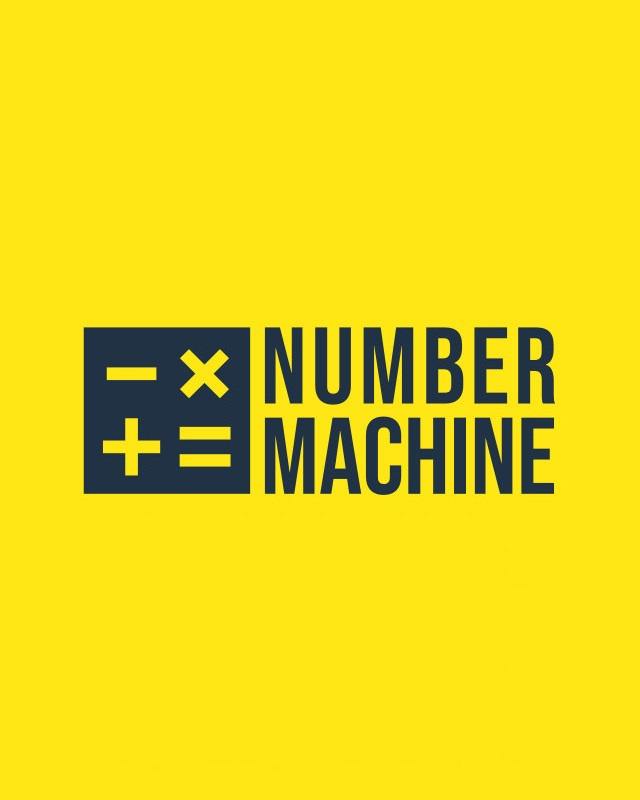
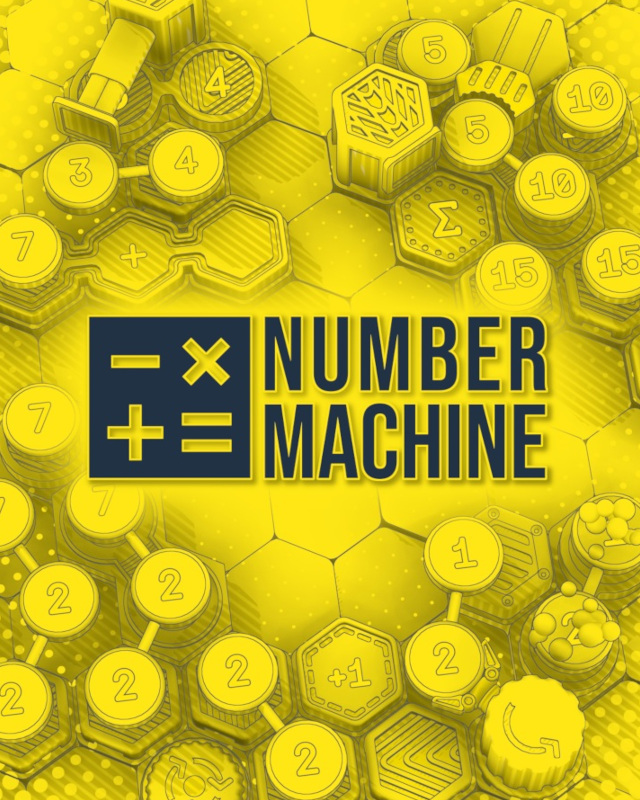
New masking, updated nm assets

diff --git a/style.css b/style.css
@@ -163,6 +163,17 @@ section {
 	padding: 0 var(--page-padding);
 }
 
+section:not(:last-of-type) {
+	mask: url(assets/mask.svg) 100% calc(100% + 10px) repeat-x, linear-gradient(#000 0 0);
+	mask-composite: exclude;
+	margin-bottom: -20px;
+	
+	animation-name: mask-anim;
+	animation-duration: 9s;
+	animation-iteration-count: infinite;
+	animation-timing-function: linear;
+}
+
 .hero {
 	background-color: #141312;
 	padding: calc(8rem + 40px) 0 5rem 0;
@@ -281,41 +292,6 @@ section {
 	top: 50%;
 	transform: translate(-50%,-50%);
 	background-attachment: fixed;
-}
-
-.mask {
-	background-color: var(--section-bg);
-	height: 30px;
-	mask-image: url("assets/mask.svg");
-	mask-repeat: repeat-x;
-	-webkit-mask-image: url("assets/mask.svg");
-	-webkit-mask-repeat: repeat-x;
-	width: 100%;
-	position: absolute;
-	top: -26px;
-	left: 0;
-	right: 0;
-	overflow: hidden;
-	z-index: 1;
-	
-	animation-name: mask-anim;
-	animation-duration: 9s;
-	animation-iteration-count: infinite;
-	animation-timing-function: linear;
-}
-
-.mask.mask-mini {
-	transform: scaleY(0.5) translateY(8px)
-}
-
-.mask.mask-reverse {
-	transform: scaleX(-1);
-}
-
-.mask.bottom {
-	transform: rotate(180deg);
-	bottom: -26px;
-	top: auto;
 }
 
 .games-section {
@@ -475,7 +451,33 @@ section {
 
 .number-machine {
 	--section-bg: #FFE715;
+	background-image: url("assets/number_machine/bg.jpg");
+	background-position: 50% 50%;
+	background-size: cover;
 }
+
+.number-machine .game-logo {
+	margin: -75px;
+}
+
+@media screen and (max-width: 700px) {
+.number-machine .game-logo {
+	margin: -55px;
+}
+}
+
+@media screen and (max-width: 450px) {
+.number-machine .game-logo {
+	margin: -40px;
+}
+}
+
+@media screen and (max-width: 350px) {
+.number-machine .game-logo {
+	margin: -30px;
+}
+}
+
 
 .spacer {
 	height: 1px;
@@ -839,7 +841,7 @@ section {
 
 .newsletter {
 	--section-bg: #1c2737;
-	padding: 70px 0 90px;
+	padding: 70px 0 70px;
 }
 
 #mc_embed_signup {

diff --git a/index.html b/index.html
@@ -98,7 +98,7 @@
 	</div>
 </nav>
 
-<section class="hero hero-section">
+<section class="hero hero-section" style="z-index: 100">
 
 	<h1 class="hero-title-for-robots-only-because-googles-description-is-wrong">
 		<img src="assets/arielek-logo-1024.jpg" alt="ARIELEK Logo">
@@ -117,8 +117,7 @@
 	</div>
 </section>
 
-<section class="newsletter">
-	<div class="mask mask-reverse"></div>
+<section class="newsletter" style="z-index: 99">
 
 					<!-- Begin Mailchimp Signup Form -->
 
@@ -153,8 +152,7 @@
 
 </section>
 
-<section class="games-section section-padding">
-	<div class="mask mask-mini"></div>
+<section class="games-section section-padding" style="z-index: 98">
 	<div class="games">
 
 		<div class="game">
@@ -170,13 +168,12 @@
 			<p>Minimalistic and beautiful casual puzzle game about fixing roads. Your mom will love it.</p>
 		</div>
 	</div>
-	<div class="mask bottom"></div>
 </section>
 
 
 
 
-<section class="number-machine section-padding" id="number-machine" >
+<section class="number-machine section-padding" id="number-machine" style="z-index: 97">
 
 	<img src="assets/number_machine/logo.png" class="game-logo" alt="Number Machine Logo">
 	
@@ -252,13 +249,11 @@
 			<p>“Has a nice style to it as well, very clean and inviting”</p>
 		</a>
 	</div>
-	
-	<div class="mask bottom"></div>
 
 </section>
 
 
-<section class="pftr section-padding" id="please-fix-the-road" >
+<section class="pftr section-padding" id="please-fix-the-road" style="z-index: 96">
 
 	<img src="assets/please/logo.png" class="game-logo" alt="Please Fix The Road Logo">
 	
